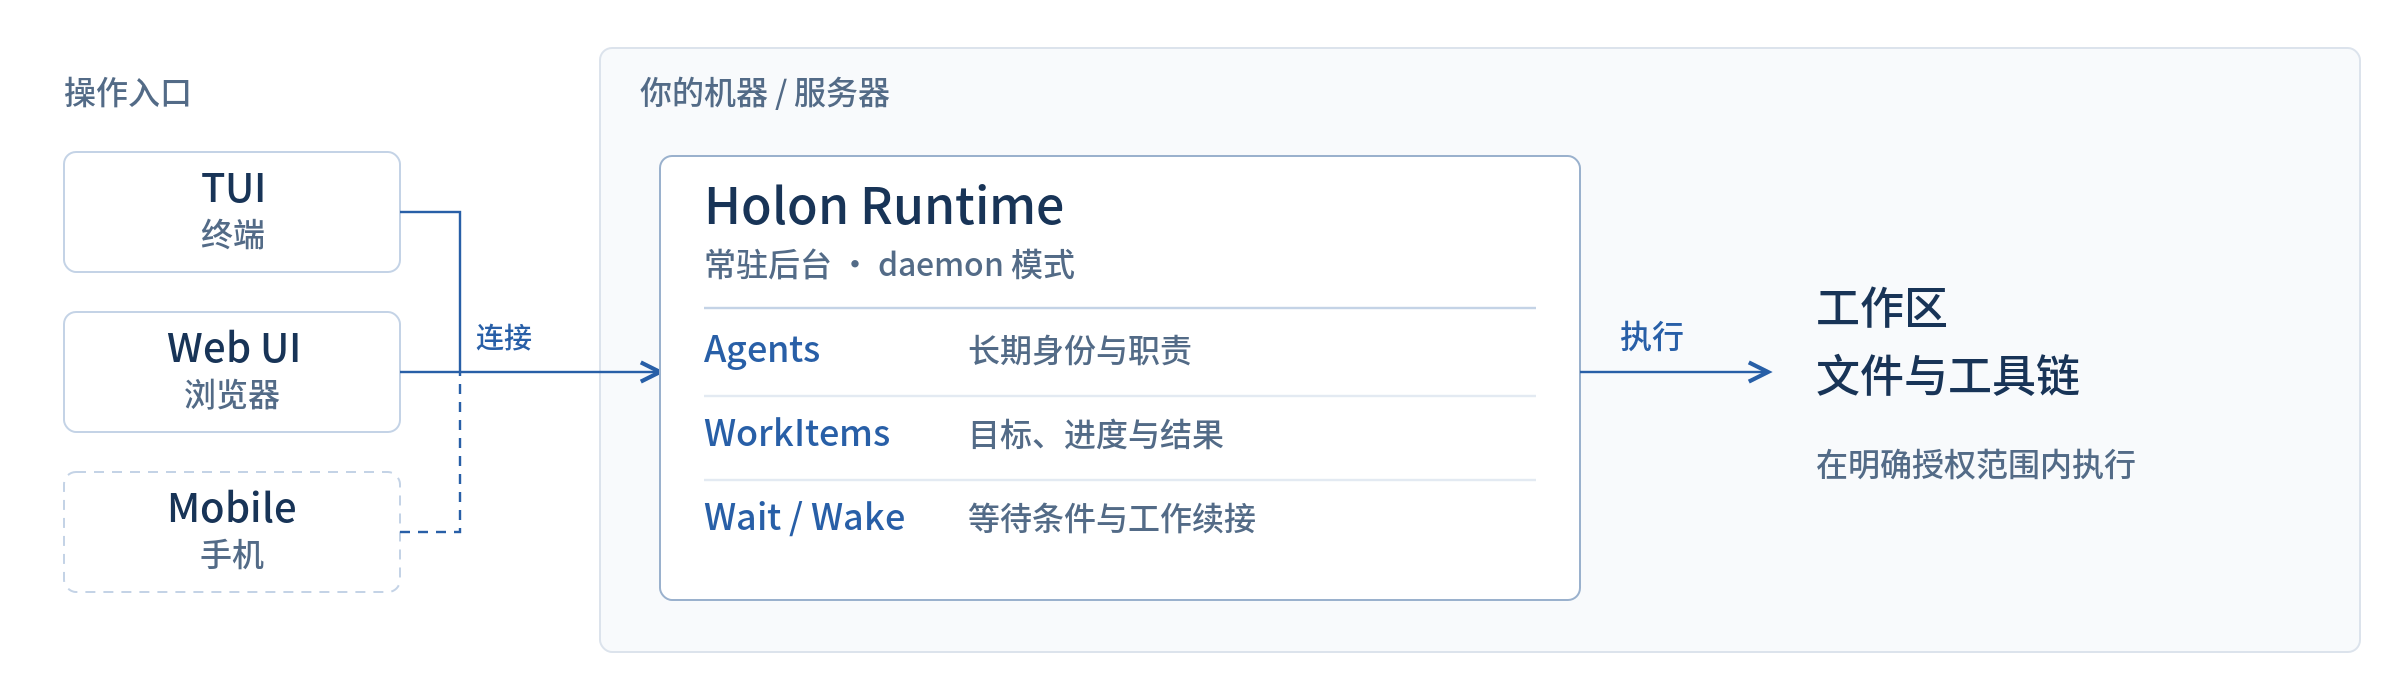
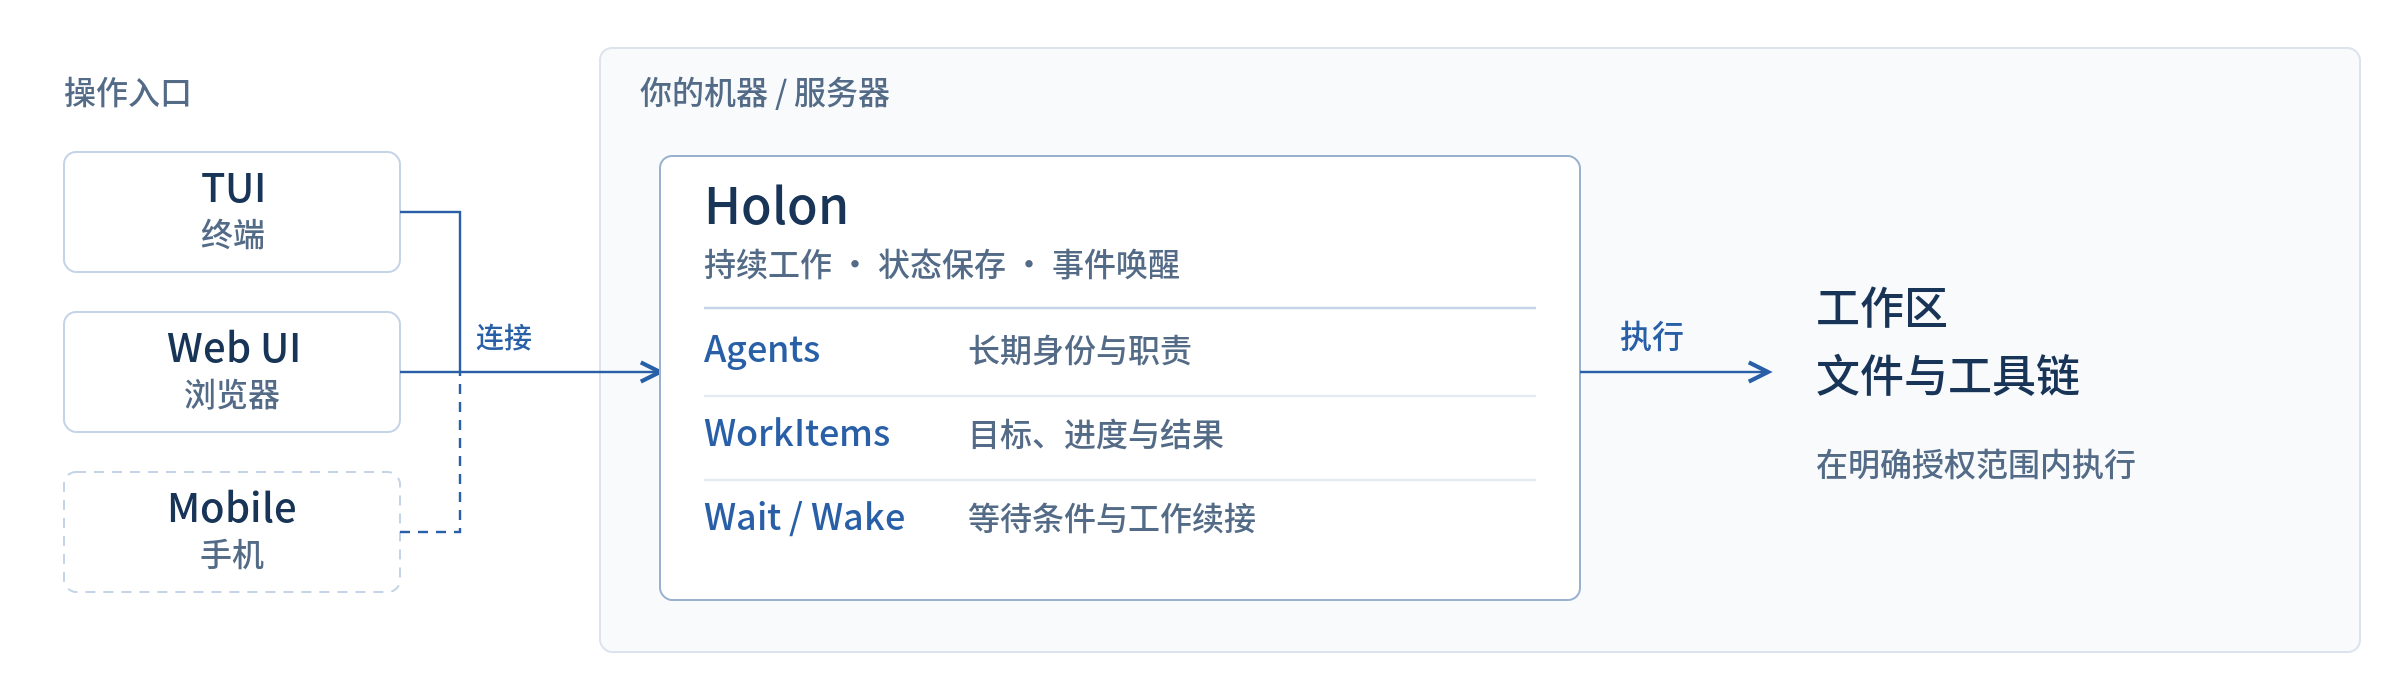
docs: 简化架构图标题与能力配文

Changed region(s): [[0.2812, 0.36, 0.5, 0.42], [0.3438, 0.27, 0.4375, 0.33]]

diff --git a/docs/website/.tools/render-runtime-diagram.py b/docs/website/.tools/render-runtime-diagram.py
@@ -25,7 +25,7 @@ def render(lang, narrow):
     parts = [
         f'<svg xmlns="http://www.w3.org/2000/svg" width="{width}" height="{height}" '
         f'viewBox="0 0 {width} {height}" role="img">',
-        "<title>Holon Runtime · "
+        "<title>Holon · "
         + ("常驻后台与多端连接" if zh else "One service, multiple interfaces")
         + "</title>",
         '<defs><marker id="arrow" markerWidth="8" markerHeight="8" refX="6" refY="3" '
@@ -88,8 +88,8 @@ def render(lang, narrow):
         text(238, 174, "连接" if zh else "Connect", 14, BLUE)
 
     rect(rx, ry, rw, rh, stroke="#9ab1cd")
-    text(rx + 22, ry + 34, "Holon Runtime", 25, INK, 500)
-    text(rx + 22, ry + 60, "常驻后台 · daemon 模式" if zh else "Background service · daemon mode", 16, MUTED)
+    text(rx + 22, ry + 34, "Holon", 25, INK, 500)
+    text(rx + 22, ry + 60, "持续工作 · 状态保存 · 事件唤醒" if zh else "Work · saved state · event wakeups", 16, MUTED)
     line(f"M{rx + 22} {ry + 76}H{rx + rw - 22}", color="#c4d3e6")
 
     modules = [

diff --git a/docs/website/zh-CN/blog/what-is-holon.md b/docs/website/zh-CN/blog/what-is-holon.md
@@ -72,7 +72,7 @@ Holon 的后台 Runtime 管理 Agent 的执行和工作状态，终端 TUI 与 W
 
 这对远程开发很直接：编译器、仓库和测试环境已经在开发机上，就让 Agent 在那里运行。你从浏览器查看结果，或通过终端继续交代要求，连接的仍是同一个后台。
 
-<img class="article-architecture" src="/assets/runtime-architecture-zh-narrow.png" width="480" height="550" alt="终端 TUI 与 Web UI 连接同一个常驻 Holon Runtime，手机入口以虚线边框和连线表示。Runtime 管理 Agent、工作项与等待唤醒，在宿主机上使用工作区、文件和工具链。" loading="lazy" decoding="async">
+<img class="article-architecture" src="/assets/runtime-architecture-zh-narrow.png" width="480" height="550" alt="终端 TUI 与 Web UI 连接同一个常驻 Holon，手机入口以虚线边框和连线表示。Holon 支持持续工作、状态保存与事件唤醒，管理 Agent 和工作项，在宿主机上使用工作区、文件和工具链。" loading="lazy" decoding="async">
 
 后台与宿主机需要保持可用，关闭客户端和关闭运行环境是两回事。图中的机器边界说明运行位置，不代表额外的权限隔离。
 

diff --git a/docs/website/README.md b/docs/website/README.md
@@ -74,7 +74,7 @@ In daemon mode, Holon Runtime holds agents, work items, and waiting state. TUI a
 </div>
 <picture class="home-architecture">
 <source media="(max-width: 1100px)" srcset="/assets/runtime-architecture-en-narrow.png" width="480" height="550">
-<img src="/assets/runtime-architecture-en.png" width="1200" height="350" alt="TUI and Web UI connect to one persistent Holon Runtime; Mobile has a dashed outline and connection. The runtime manages agents, work items and wait/wake, using workspaces, files and toolchains on its host." loading="lazy" decoding="async">
+<img src="/assets/runtime-architecture-en.png" width="1200" height="350" alt="TUI and Web UI connect to one persistent Holon service; Mobile has a dashed outline and connection. Holon supports ongoing work, saved state and event wakeups, managing agents and work items with workspaces, files and toolchains on its host." loading="lazy" decoding="async">
 </picture>
 <p class="home-product__caption">Execution requires the daemon and host to stay running. The machine boundary shows where work runs, not additional permission isolation.</p>
 </section>

diff --git a/docs/website/zh-CN/README.md b/docs/website/zh-CN/README.md
@@ -74,7 +74,7 @@ order: 1
 </div>
 <picture class="home-architecture">
 <source media="(max-width: 1100px)" srcset="/assets/runtime-architecture-zh-narrow.png" width="480" height="550">
-<img src="/assets/runtime-architecture-zh.png" width="1200" height="350" alt="TUI 与 Web UI 连接同一常驻 Holon Runtime，手机入口以虚线边框和连线表示。Runtime 管理 Agent、工作项和等待唤醒，在宿主机上使用工作区、文件与工具链。" loading="lazy" decoding="async">
+<img src="/assets/runtime-architecture-zh.png" width="1200" height="350" alt="TUI 与 Web UI 连接同一常驻 Holon，手机入口以虚线边框和连线表示。Holon 支持持续工作、状态保存与事件唤醒，管理 Agent 和工作项，在宿主机上使用工作区、文件与工具链。" loading="lazy" decoding="async">
 </picture>
 <p class="home-product__caption">持续执行依赖 daemon 与宿主机保持运行；机器边界说明运行位置，不代表额外的权限隔离。</p>
 </section>

diff --git a/docs/website/assets/README.md b/docs/website/assets/README.md
@@ -22,7 +22,9 @@ Keep HTML image dimensions and the homepage picture/CSS breakpoint synchronized.
 The host boundary contains the runtime and execution resources, not interfaces;
 it describes execution location, not a security sandbox.
 Mobile uses a dashed outline and connector. Thin internal rules separate the
-Runtime heading and its three parallel responsibilities, without a workflow arrow.
+Holon heading and its three parallel responsibilities, without a workflow arrow.
+The heading avoids runtime terminology; its subtitle describes ongoing work,
+saved state and event wakeups. Technical terminology in article prose is unchanged.
 
 The product article uses only `holon-tour-review-work.webp`, with a fixture-data
 caption. Keep `holon-tour-agents.webp` and the versioned demo fixture available
